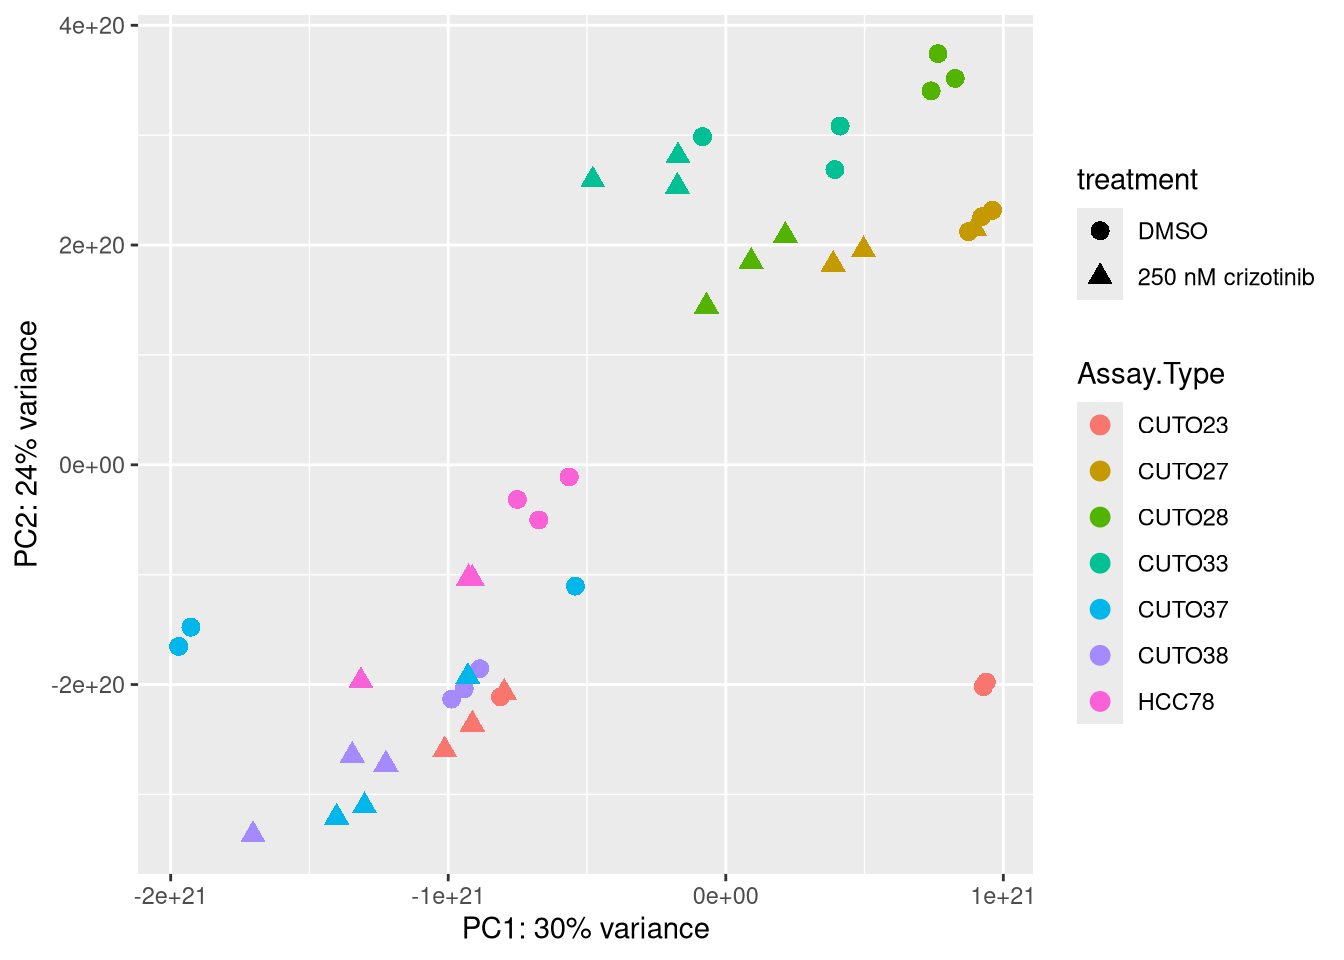
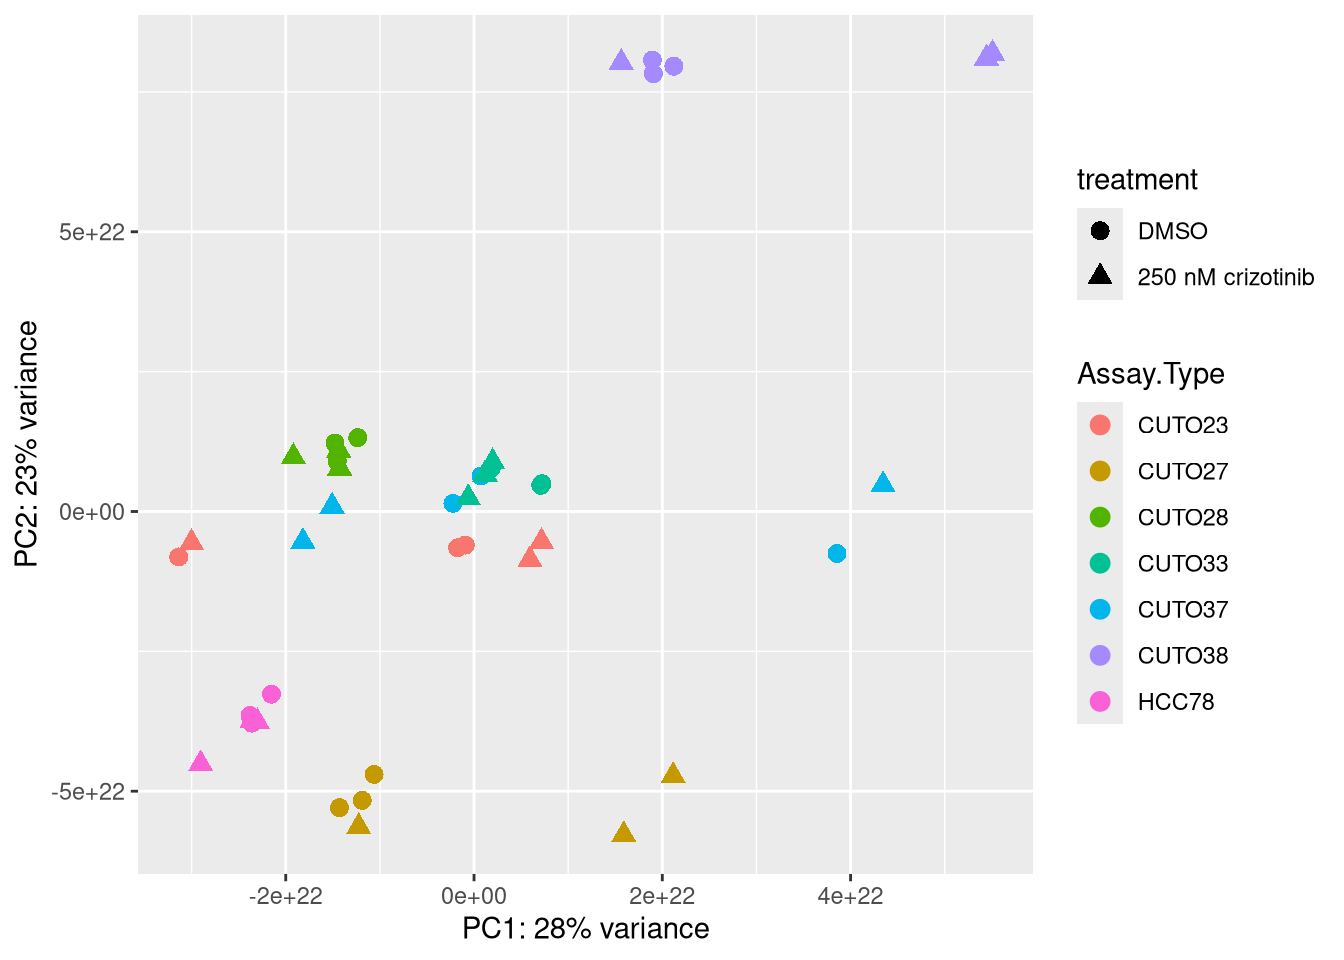
primer design again

diff --git a/logbooks/logging_ramon.html b/logbooks/logging_ramon.html
@@ -1028,7 +1028,7 @@ low counts [2]     : 8191, 23%
 <div class="code-copy-outer-scaffold"><div class="sourceCode cell-code" id="cb47"><pre class="sourceCode r code-with-copy"><code class="sourceCode r"><span id="cb47-1"><a href="#cb47-1" aria-hidden="true" tabindex="-1"></a>resLFC <span class="ot">&lt;-</span> <span class="fu">lfcShrink</span>(dds, <span class="at">coef =</span> <span class="fu">tail</span>(<span class="fu">resultsNames</span>(dds), <span class="at">n=</span><span class="dv">1</span>), <span class="at">type =</span> <span class="st">"apeglm"</span>)</span></code></pre></div><button title="Copy to Clipboard" class="code-copy-button"><i class="bi"></i></button></div>
 </div>
 <div class="cell">
-<div class="code-copy-outer-scaffold"><div class="sourceCode cell-code" id="cb48"><pre class="sourceCode r code-with-copy"><code class="sourceCode r"><span id="cb48-1"><a href="#cb48-1" aria-hidden="true" tabindex="-1"></a>vsd <span class="ot">&lt;-</span> <span class="fu">vst</span>(dds, <span class="at">blind =</span> F)</span>
+<div class="code-copy-outer-scaffold"><div class="sourceCode cell-code" id="cb48"><pre class="sourceCode r code-with-copy"><code class="sourceCode r"><span id="cb48-1"><a href="#cb48-1" aria-hidden="true" tabindex="-1"></a>vsd <span class="ot">&lt;-</span> <span class="fu">vst</span>(dds)</span>
 <span id="cb48-2"><a href="#cb48-2" aria-hidden="true" tabindex="-1"></a>pcaData <span class="ot">&lt;-</span> <span class="fu">plotPCA</span>(vsd, <span class="at">intgroup=</span> <span class="fu">c</span>(<span class="st">"Assay.Type"</span>, <span class="st">"treatment"</span>), <span class="at">returnData=</span>T)</span></code></pre></div><button title="Copy to Clipboard" class="code-copy-button"><i class="bi"></i></button></div>
 </div>
 <p>I want to generate a PCA plot to look at the different samples, and see if they align or if there are any outliers. I will do this using the given PCA data from deseq2 and generating a PCA plot from this using ggplot.</p>
@@ -1072,8 +1072,8 @@ low counts [2]     : 8191, 23%
 <tbody>
 <tr class="odd">
 <td style="text-align: left;">HCC78_250 nM crizotinib_r1</td>
-<td style="text-align: right;">-1.314750e+21</td>
-<td style="text-align: right;">-1.967848e+20</td>
+<td style="text-align: right;">-2.903970e+22</td>
+<td style="text-align: right;">-4.514038e+22</td>
 <td style="text-align: left;">HCC78:250 nM crizotinib</td>
 <td style="text-align: left;">HCC78_250 nM crizotinib_r1</td>
 <td style="text-align: left;">SRR25486680ReadsPerGene</td>
@@ -1085,8 +1085,8 @@ low counts [2]     : 8191, 23%
 </tr>
 <tr class="even">
 <td style="text-align: left;">HCC78_250 nM crizotinib_r2</td>
-<td style="text-align: right;">-9.268665e+20</td>
-<td style="text-align: right;">-1.032004e+20</td>
+<td style="text-align: right;">-2.300423e+22</td>
+<td style="text-align: right;">-3.762761e+22</td>
 <td style="text-align: left;">HCC78:250 nM crizotinib</td>
 <td style="text-align: left;">HCC78_250 nM crizotinib_r2</td>
 <td style="text-align: left;">SRR25486681ReadsPerGene</td>
@@ -1098,8 +1098,8 @@ low counts [2]     : 8191, 23%
 </tr>
 <tr class="odd">
 <td style="text-align: left;">HCC78_250 nM crizotinib_r3</td>
-<td style="text-align: right;">-9.130208e+20</td>
-<td style="text-align: right;">-1.036684e+20</td>
+<td style="text-align: right;">-2.359719e+22</td>
+<td style="text-align: right;">-3.744667e+22</td>
 <td style="text-align: left;">HCC78:250 nM crizotinib</td>
 <td style="text-align: left;">HCC78_250 nM crizotinib_r3</td>
 <td style="text-align: left;">SRR25486682ReadsPerGene</td>
@@ -1111,8 +1111,8 @@ low counts [2]     : 8191, 23%
 </tr>
 <tr class="even">
 <td style="text-align: left;">HCC78_DMSO_r1</td>
-<td style="text-align: right;">-6.736035e+20</td>
-<td style="text-align: right;">-5.023391e+19</td>
+<td style="text-align: right;">-2.379596e+22</td>
+<td style="text-align: right;">-3.645613e+22</td>
 <td style="text-align: left;">HCC78:DMSO</td>
 <td style="text-align: left;">HCC78_DMSO_r1</td>
 <td style="text-align: left;">SRR25486683ReadsPerGene</td>
@@ -1124,8 +1124,8 @@ low counts [2]     : 8191, 23%
 </tr>
 <tr class="odd">
 <td style="text-align: left;">HCC78_DMSO_r2</td>
-<td style="text-align: right;">-7.510494e+20</td>
-<td style="text-align: right;">-3.153008e+19</td>
+<td style="text-align: right;">-2.151818e+22</td>
+<td style="text-align: right;">-3.265529e+22</td>
 <td style="text-align: left;">HCC78:DMSO</td>
 <td style="text-align: left;">HCC78_DMSO_r2</td>
 <td style="text-align: left;">SRR25486684ReadsPerGene</td>
@@ -1137,8 +1137,8 @@ low counts [2]     : 8191, 23%
 </tr>
 <tr class="even">
 <td style="text-align: left;">HCC78_DMSO_r3</td>
-<td style="text-align: right;">-5.640753e+20</td>
-<td style="text-align: right;">-1.106703e+19</td>
+<td style="text-align: right;">-2.361336e+22</td>
+<td style="text-align: right;">-3.782971e+22</td>
 <td style="text-align: left;">HCC78:DMSO</td>
 <td style="text-align: left;">HCC78_DMSO_r3</td>
 <td style="text-align: left;">SRR25486685ReadsPerGene</td>